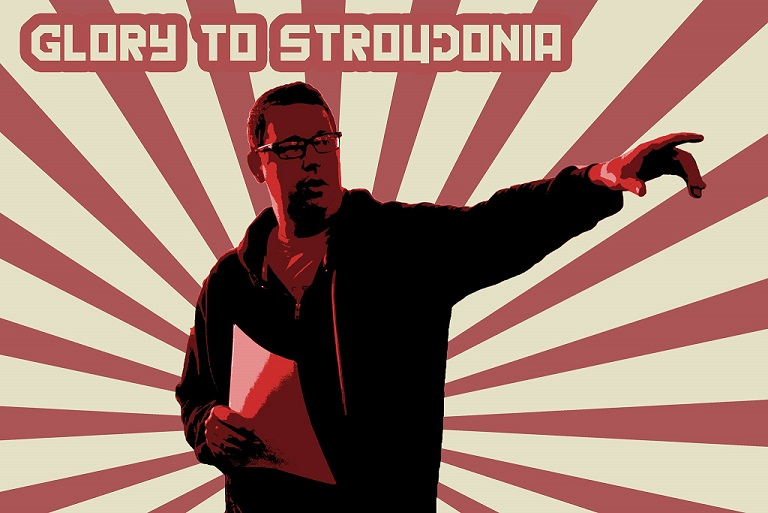
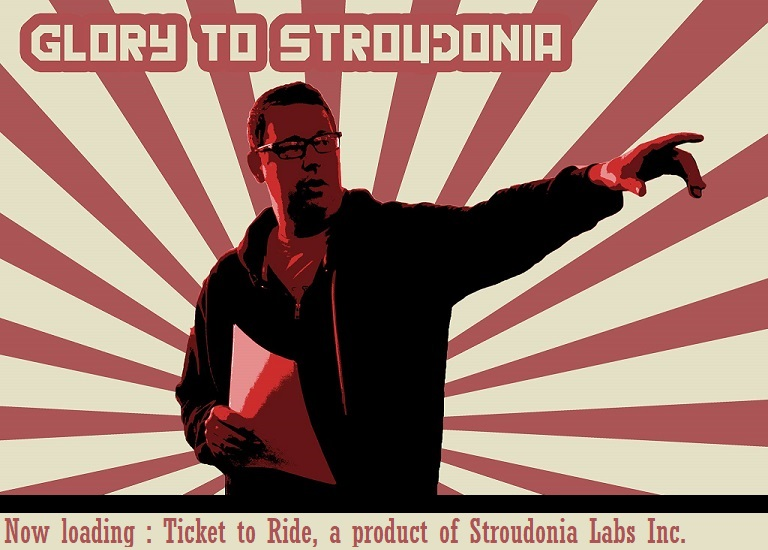
Polish Loading Screen

diff --git a/src/GameFrame.java b/src/GameFrame.java
@@ -1,6 +1,8 @@
 import javax.imageio.ImageIO;
 import javax.swing.*;
 import java.awt.*;
+import java.awt.event.ActionEvent;
+import java.awt.event.ActionListener;
 import java.awt.image.BufferedImage;
 import java.awt.image.ImageObserver;
 import java.io.File;
@@ -54,7 +56,7 @@ public class GameFrame extends JFrame {
 	public static void main(String[] args) throws Exception {
 		JWindow window = new JWindow();
 		window.setContentPane(new BackgroundPanel(ImageIO.read(new File("yeet.jpg"))));
-		window.setBounds(576, 250, 768, 513);
+		window.setBounds(576, 250, 768, 550);
 		window.setVisible(true);
 		try {
 		    Thread.sleep(2000);
@@ -68,19 +70,31 @@ public class GameFrame extends JFrame {
 
 class BackgroundPanel extends JComponent {
     private Image image;
+    private Timer animateTimer2;
 
     private int x, y, length, height;
     public BackgroundPanel(Image im) {
 		image = im;
 		x = 0;
-		y = 225;
+		y = 495;
+		length = 0;
+		height = 18;
 	}
 
-    @Override
-    protected void paintComponent(Graphics g) {
-        super.paintComponent(g);
-        g.drawImage(image, 0, 0, this);
-    }
+	@Override
+	protected void paintComponent(Graphics g) {
+		super.paintComponent(g);
+		g.drawImage(image, 0, 0, this);
+		animateTimer2 = new Timer(900, new AnimateLine());
+		animateTimer2.start();
+		g.setColor(new ColorType(170, 85, 85));
+		g.fillRect(x, y, length, height);
+		this.repaint();
+	}
 
-
+	class AnimateLine implements ActionListener {
+		public void actionPerformed(ActionEvent e) {
+			length++;
+		}
+	}
 }
